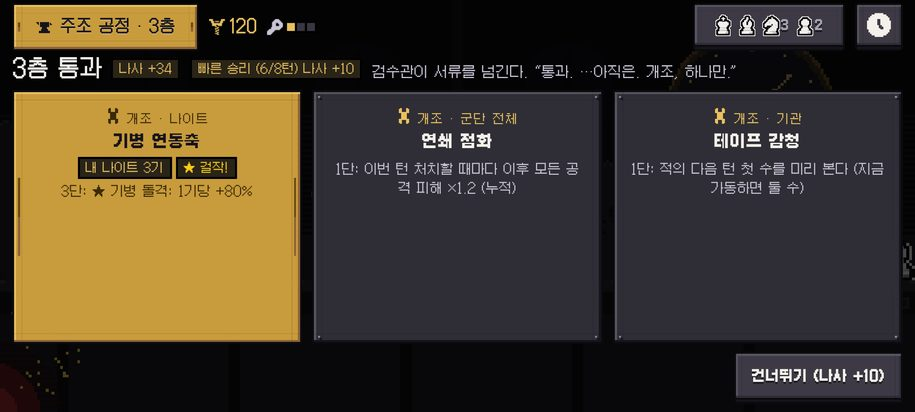
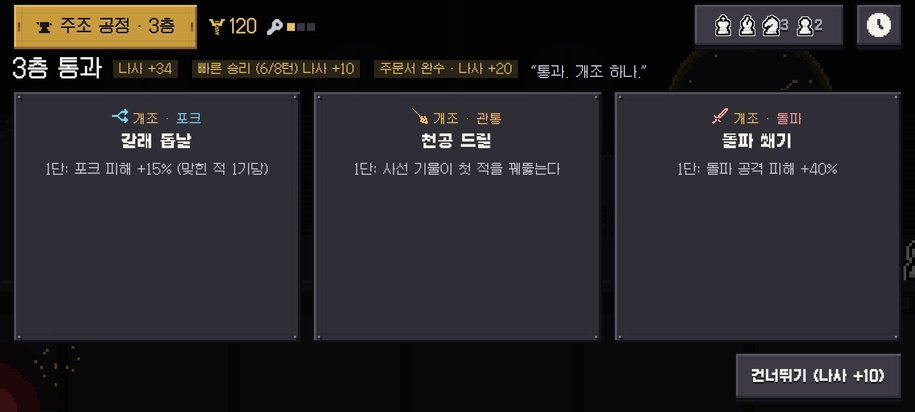
Keyword-linked enchants: fork, pierce, breach and check
키워드 연계 개조 4종을 넣었다 (D-095): 갈래 톱날(포크) · 천공 드릴(관통) · 돌파 쐐기(돌파) · 체크 경보기(체크).
수에 이름이 붙으면 피해·태엽·방열판·주변 타격이 붙어서, 전술 키워드가 군단 빌드의 축이 되게 했다. 천공 드릴 1단은 룩·퀸에도 관통을 열어 준다.
기존 사선 개방 밸브는 사선 개척, 연쇄 점화는 연쇄 키워드에 연결했고, 개조 카드에 그 수의 아이콘·색을 붙였다.
테스트 4개 추가 (131개 통과). 보상 화면은 모바일 해상도로 확인했다.

Claude-Session: https://claude.ai/code/session_011jC4ZCDKW43H5FzLWnYVpe

diff --git a/src/engine/plan.ts b/src/engine/plan.ts
@@ -1,6 +1,6 @@
 import { CHAIN, LAST_STRIKE_MULT } from '../data/battle';
 import { CARDS, type CardUse } from '../data/cards';
-import { SYNERGY } from '../data/enchants';
+import { SYNERGY, TACTIC_ENCHANT } from '../data/enchants';
 import { BASE_AP, PIECE_STATS } from '../data/pieces';
 import { CHAIN_KILLS, type TacticId } from '../data/tactics';
 import { VARIANTS } from '../data/variants';
@@ -110,6 +110,8 @@ interface TurnCtx {
   /** 이번 턴 처치로 빈 적 칸과 그 순번 (돌파 키워드) */
   vacated: { pos: Pos; order: number }[];
   chainDone: boolean;
+  /** 키워드 연계 개조의 턴당 1회 태엽 (갈래 톱날 · 돌파 쐐기) */
+  tacticAp: Set<string>;
 }
 
 /** 전술 키워드를 기록한다 (D-094): 사건 + 진영별 횟수 */
@@ -212,6 +214,38 @@ const applyDamage = (s: BattleState, target: Piece, damage: number, splash = fal
 
 const SLIDERS: PieceType[] = ['B', 'R', 'Q'];
 
+/** 키워드 연계 개조의 공격 뒤 효과 (D-095): 태엽 · 방열판 · 주변 타격 */
+const tacticAfter = (s: BattleState, ctx: TurnCtx, attacker: Piece, hits: HitResult[], got: { fork: boolean; breach: boolean; mult: number }): void => {
+  const side = attacker.side;
+  const lv = (id: 'E17' | 'E19' | 'E20') => ench(s, side, id);
+  const apOnce = (key: string) => {
+    if (ctx.tacticAp.has(key)) return;
+    ctx.tacticAp.add(key);
+    s.apBonus[side] += 1;
+    ctx.events.push({ type: 'apGain', side, amount: 1 });
+  };
+  if (got.fork && lv('E17') >= 2) apOnce('fork');
+  if (got.breach && lv('E19') >= 2) apOnce('breach');
+  // 주변 8칸 적에게 이 공격의 50% (돌파 쐐기 ★ · 비상 경보 ★)
+  const ring = (cx: number, cy: number) => {
+    const out: HitResult[] = [];
+    for (const n of s.pieces.filter((p) => p.side !== side && p.hp > 0 && chebyshev(p, { x: cx, y: cy }) === 1)) {
+      out.push(applyDamage(s, n, Math.max(1, Math.floor(damageOf(s, attacker, n, got.mult) * TACTIC_ENCHANT.extraHit)), true));
+    }
+    if (out.length) ctx.events.push({ type: 'attack', order: ctx.order, attackerId: attacker.id, area: [], hits: out });
+  };
+  if (got.breach && lv('E19') >= 3) ring(attacker.x, attacker.y);
+  const checked = hits.find((h) => h.checked);
+  if (checked && lv('E20') >= 1) {
+    attacker.shield += TACTIC_ENCHANT.checkShield;
+    ctx.events.push({ type: 'shield', pieceId: attacker.id, amount: TACTIC_ENCHANT.checkShield });
+  }
+  if (checked && lv('E20') >= 3) {
+    const k = findPiece(s, checked.targetId);
+    if (k) ring(k.x, k.y);
+  }
+};
+
 /** 착지한 기물의 공격 한 번 (GDD 3장 §3.1). 파괴된 기물은 즉시 제거한다. 처치 수를 돌려준다. */
 const performAttack = (s: BattleState, attacker: Piece, order: number, ctx: TurnCtx, mods: AttackMods): number => {
   const grid = buildGrid(s);
@@ -238,6 +272,12 @@ const performAttack = (s: BattleState, attacker: Piece, order: number, ctx: Turn
   if (e09 >= 1 && opened) mult *= e09 >= 2 ? 1.6 : 1.3;
   // 돌파: 앞 순번이 처치해 비운 칸에 내려앉아 친다
   const breach = ctx.vacated.some((v) => v.order < ctx.order && samePos(v.pos, attacker));
+  // 키워드 연계 개조 (D-095): 공격 전에 알 수 있는 수에 배율
+  const lvT = (id: 'E17' | 'E18' | 'E19' | 'E20') => ench(s, attacker.side, id);
+  const live = targets.filter((t) => t.hp > 0);
+  const forking = live.length >= 2;
+  if (forking && lvT('E17') >= 1) mult *= 1 + live.length * TACTIC_ENCHANT.forkPerTarget;
+  if (breach && lvT('E19') >= 1) mult *= TACTIC_ENCHANT.breachMult;
 
   const hits: HitResult[] = [];
   const primary = new Set(targets.map((t) => t.id));
@@ -245,6 +285,8 @@ const performAttack = (s: BattleState, attacker: Piece, order: number, ctx: Turn
     if (t.hp <= 0) continue;
     let dmg = damageOf(s, attacker, t, mult);
     if (e09 >= 3 && (ctx.hitCount.get(t.id) ?? 0) >= 1) dmg *= 2;
+    if (pierced.has(t.id) && lvT('E18') >= 2) dmg = Math.round(dmg * TACTIC_ENCHANT.pierceMult);
+    if (t.type === 'K' && lvT('E20') >= 2) dmg = Math.round(dmg * TACTIC_ENCHANT.kingMult);
     const origin = { x: t.x, y: t.y };
     const hit = applyDamage(s, t, dmg);
     ctx.hitCount.set(t.id, (ctx.hitCount.get(t.id) ?? 0) + 1);
@@ -263,6 +305,8 @@ const performAttack = (s: BattleState, attacker: Piece, order: number, ctx: Turn
       }
     }
     hits.push(hit);
+    // 갈래 톱날 ★: 포크로 맞힌 적마다 한 번 더
+    if (forking && lvT('E17') >= 3 && victim.hp > 0) hits.push(applyDamage(s, victim, Math.max(1, Math.floor(dmg * TACTIC_ENCHANT.extraHit)), true));
 
     // 번개·연쇄 (E01 2장·★, C03): 맞은 적의 상하좌우 적에게 부가 피해
     if (mods.splash > 0) {
@@ -284,6 +328,7 @@ const performAttack = (s: BattleState, attacker: Piece, order: number, ctx: Turn
     if (breach) tally(s, ctx, attacker.id, 'breach');
   }
   if (hits.some((h) => h.checked)) tally(s, ctx, attacker.id, 'check');
+  tacticAfter(s, ctx, attacker, hits, { fork: direct.length > 0 && forking, breach: direct.length > 0 && breach, mult });
   return resolveDeaths(s, ctx, attacker);
 };
 
@@ -367,6 +412,7 @@ export const simulate = (input: BattleState, plan: Plan): Simulation => {
     order: 0,
     vacated: [],
     chainDone: false,
+    tacticAp: new Set(),
   };
   let apUsed = 0;
   let prevKilled = false;

diff --git a/src/data/enchants.ts b/src/data/enchants.ts
@@ -1,11 +1,15 @@
 /** 개조 카탈로그 (GDD 7장 §7.2, 코드 이름 enchant). 1단 · 2단 · ★걸작. 이름은 world.md §6 「무엇을 + 어떻게 고쳤나」 (D-085). */
-export type EnchantId = 'E01' | 'E02' | 'E03' | 'E04' | 'E05' | 'E06' | 'E07' | 'E08' | 'E09' | 'E10' | 'E11' | 'E12' | 'E13' | 'E14' | 'E15' | 'E16';
+import type { TacticId } from './tactics';
+
+export type EnchantId = 'E01' | 'E02' | 'E03' | 'E04' | 'E05' | 'E06' | 'E07' | 'E08' | 'E09' | 'E10' | 'E11' | 'E12' | 'E13' | 'E14' | 'E15' | 'E16' | 'E17' | 'E18' | 'E19' | 'E20';
 
 export interface EnchantDef {
   name: string;
   /** 대상 표시용 */
   target: string;
   levels: [string, string, string];
+  /** 전술 키워드 연계 개조 (D-095): 이 키워드가 나야 효과가 난다 */
+  tactic?: TacticId;
 }
 
 export const ENCHANTS: Record<EnchantId, EnchantDef> = {
@@ -51,7 +55,8 @@ export const ENCHANTS: Record<EnchantId, EnchantDef> = {
   },
   E09: {
     name: '사선 개방 밸브',
-    target: '군단 전체',
+    target: '사선 개척',
+    tactic: 'discover',
     levels: ['이번 턴 아군이 비켜 줘서 열린 사선으로 공격하면 ATK +30%', '그 보너스가 +60%', '★ 십자 포화: 한 턴에 두 번째 이후로 맞는 적은 피해 2배'],
   },
   E10: {
@@ -81,7 +86,8 @@ export const ENCHANTS: Record<EnchantId, EnchantDef> = {
   },
   E15: {
     name: '연쇄 점화',
-    target: '군단 전체',
+    target: '연쇄',
+    tactic: 'chain',
     levels: ['이번 턴 처치할 때마다 이후 모든 공격 피해 ×1.2 (누적)', '처치마다 ×1.3', '★ 연쇄 폭발: 처치마다 ×1.5'],
   },
   E16: {
@@ -89,6 +95,46 @@ export const ENCHANTS: Record<EnchantId, EnchantDef> = {
     target: '기관',
     levels: ['적의 다음 턴 첫 수를 미리 본다 (지금 가동하면 둘 수)', '첫 2수를 미리 본다', '★ 전부 감청: 적의 다음 턴 수를 전부 본다'],
   },
+  // 키워드 연계 개조 (GDD 11장 B4, D-095): 수에 이름이 붙으면 힘이 붙는다
+  E17: {
+    name: '갈래 톱날',
+    target: '포크',
+    tactic: 'fork',
+    levels: ['포크 피해 +15% (맞힌 적 1기당)', '포크가 나면 그 턴 태엽 +1 (턴당 1회)', '★ 세 갈래: 포크로 맞힌 적마다 한 번 더 50% 타격'],
+  },
+  E18: {
+    name: '천공 드릴',
+    target: '관통',
+    tactic: 'pierce',
+    levels: ['사선 기물이 첫 적을 꿰뚫는다', '관통으로 맞힌 적 피해 +50%', '★ 관통 드릴: 사선 끝까지 모든 적을 꿰뚫는다'],
+  },
+  E19: {
+    name: '돌파 쐐기',
+    target: '돌파',
+    tactic: 'breach',
+    levels: ['돌파 공격 피해 +40%', '돌파가 나면 그 턴 태엽 +1 (턴당 1회)', '★ 쐐기 박기: 돌파 착지 칸 주변 8칸 적에게 50% 피해'],
+  },
+  E20: {
+    name: '체크 경보기',
+    target: '체크',
+    tactic: 'check',
+    levels: ['체크를 건 기물 방열판 +15', '적 킹을 치는 공격 피해 +30%', '★ 비상 경보: 체크가 나면 그 킹 주변 8칸 적에게 50% 피해'],
+  },
+};
+
+/** 키워드 연계 개조 수치 (D-095) 🔧 */
+export const TACTIC_ENCHANT = {
+  /** 갈래 톱날 1단: 포크로 맞힌 적 1기당 피해 배율 가산 */
+  forkPerTarget: 0.15,
+  /** 갈래 톱날 ★ · 돌파 쐐기 ★ · 체크 경보기 ★: 추가 타격 비율 */
+  extraHit: 0.5,
+  /** 천공 드릴 2단: 관통으로 맞힌 적 피해 배율 */
+  pierceMult: 1.5,
+  /** 돌파 쐐기 1단 */
+  breachMult: 1.4,
+  /** 체크 경보기 1단: 방열판 · 2단: 킹 피해 배율 */
+  checkShield: 15,
+  kingMult: 1.3,
 };
 
 /**

diff --git a/tests/tactics.test.ts b/tests/tactics.test.ts
@@ -66,3 +66,56 @@ describe('전술 키워드 (GDD 11장 A1, D-094)', () => {
     expect(r.state.record?.[0].finisher).toBe('P');
   });
 });
+
+describe('키워드 연계 개조 (GDD 11장 B4, D-095)', () => {
+  const ench = (s: BattleState, id: 'E17' | 'E18' | 'E19' | 'E20', n: number) => {
+    s.loadouts[0].enchants[id] = n;
+    return s;
+  };
+  const dmgTo = (events: BattleEvent[], id: number) =>
+    events.flatMap((e) => (e.type === 'attack' ? e.hits.filter((h) => h.targetId === id && !h.splash).map((h) => h.damage) : []))[0] ?? 0;
+  const fork = () => board([['K', 0, 'h1'], ['N', 0, 'b1'], ['P', 1, 'b5', tough], ['P', 1, 'e4', tough], ['K', 1, 'h8']]);
+
+  it('갈래 톱날: 포크 피해가 늘고, 2단이면 태엽 +1, ★이면 한 번 더 친다', () => {
+    const base = dmgTo(simulate(fork(), [{ pieceId: 2, to: sq('c3') }]).events, 3);
+    const r1 = simulate(ench(fork(), 'E17', 1), [{ pieceId: 2, to: sq('c3') }]);
+    expect(dmgTo(r1.events, 3)).toBeGreaterThan(base);
+    const r2 = simulate(ench(fork(), 'E17', 2), [{ pieceId: 2, to: sq('c3') }]);
+    expect(r2.events.some((e) => e.type === 'apGain')).toBe(true);
+    const r3 = simulate(ench(fork(), 'E17', 3), [{ pieceId: 2, to: sq('c3') }]);
+    const extra = r3.events.flatMap((e) => (e.type === 'attack' ? e.hits.filter((h) => h.splash) : []));
+    expect(extra).toHaveLength(2);
+  });
+
+  it('천공 드릴: 룩 사선도 첫 적을 꿰뚫고(관통), 2단이면 뒤의 적 피해가 크다', () => {
+    const rook = () => board([['K', 0, 'h1'], ['R', 0, 'a1'], ['P', 1, 'a5', tough], ['P', 1, 'a7', tough], ['K', 1, 'h8']]);
+    expect(tactics(simulate(rook(), [{ pieceId: 2, to: sq('a2') }]).events)).not.toContain('pierce');
+    const r1 = simulate(ench(rook(), 'E18', 1), [{ pieceId: 2, to: sq('a2') }]);
+    expect(tactics(r1.events)).toContain('pierce');
+    const r2 = simulate(ench(rook(), 'E18', 2), [{ pieceId: 2, to: sq('a2') }]);
+    expect(dmgTo(r2.events, 4)).toBeGreaterThan(dmgTo(r1.events, 4));
+  });
+
+  it('돌파 쐐기: 돌파 피해가 늘고, ★이면 착지 칸 주변 적도 맞는다', () => {
+    const land = () => board([['K', 0, 'h1'], ['R', 0, 'a1'], ['N', 0, 'c4'], ['P', 1, 'a5', { hp: 1, maxHp: 1 }], ['P', 1, 'b7', tough], ['P', 1, 'b6', tough], ['K', 1, 'h8']]);
+    const plan = [{ pieceId: 2, to: sq('a2') }, { pieceId: 3, to: sq('a5') }];
+    const base = dmgTo(simulate(land(), plan).events, 5);
+    expect(dmgTo(simulate(ench(land(), 'E19', 1), plan).events, 5)).toBeGreaterThan(base);
+    const r3 = simulate(ench(land(), 'E19', 3), plan);
+    expect(r3.events.some((e) => e.type === 'attack' && e.hits.some((h) => h.targetId === 6 && h.splash))).toBe(true);
+  });
+
+  it('체크 경보기: 체크를 건 기물 방열판, 2단이면 킹 피해 +30%', () => {
+    const chk = () => {
+      const s = board([['K', 0, 'h1'], ['R', 0, 'a1'], ['K', 1, 'a6', { hp: 5, maxHp: 50 }]]);
+      s.rules.checkmate = true;
+      return s;
+    };
+    const r1 = simulate(ench(chk(), 'E20', 1), [{ pieceId: 2, to: sq('a2') }]);
+    expect(tactics(r1.events)).toContain('check');
+    expect(r1.state.pieces.find((p) => p.id === 2)!.shield).toBe(15);
+    const plain = board([['K', 0, 'h1'], ['R', 0, 'a1'], ['K', 1, 'a6', { hp: 500, maxHp: 500 }]]);
+    const hit = (s: BattleState) => dmgTo(simulate(s, [{ pieceId: 2, to: sq('a2') }]).events, 3);
+    expect(hit(ench(board([['K', 0, 'h1'], ['R', 0, 'a1'], ['K', 1, 'a6', { hp: 500, maxHp: 500 }]]), 'E20', 2))).toBeGreaterThan(hit(plain));
+  });
+});

diff --git a/src/ui/runUi.ts b/src/ui/runUi.ts
@@ -1,3 +1,4 @@
+import { TACTICS } from '../data/tactics';
 import { sfx } from '../audio/sfx';
 import { TUNED } from '../data/aiWeights';
 import { CARDS, CARD_SLOTS, type CardId } from '../data/cards';
@@ -77,7 +78,10 @@ const enchantOffer = (id: EnchantId, next: number, run: RunState | null): string
   }
   if (next === 2) tags.push('<i class="tag">★까지 1단</i>');
   if (next === 3) tags.push('<i class="tag gold">★ 걸작!</i>');
-  return `<span class="kind">${icon('wrench', 's')} 개조 · ${def.target}</span><b>${def.name}</b><span class="tags">${tags.join('')}</span><p>${next}단: ${def.levels[next - 1]}</p>`;
+  // 키워드 연계 개조 (D-095): 그 수의 아이콘·색으로
+  const tac = def.tactic ? TACTICS[def.tactic] : null;
+  const kindIcon = tac ? icon(tac.icon, 's', tac.color) : icon('wrench', 's');
+  return `<span class="kind">${kindIcon} 개조 · ${tac ? `<span style="color:${tac.color}">${def.target}</span>` : def.target}</span><b>${def.name}</b><span class="tags">${tags.join('')}</span><p>${next}단: ${def.levels[next - 1]}</p>`;
 };
 
 const cardOffer = (id: CardId): string => {

diff --git a/tools/fxlab/decisions.ts b/tools/fxlab/decisions.ts
@@ -82,6 +82,7 @@ export const DECISIONS: { item: string; rule: string; status: Status }[] = [
   { item: '흰 킹', rule: '원래 킹 기물 그림 (왕관 쓴 폰 안은 접음, D-079)', status: 'done' },
   { item: '발밑 받침', rule: '쓰지 않는다 — 진영은 흰/검은 기물과 HP 게이지 색으로', status: 'done' },
   { item: '전술 키워드', rule: '공격 순간 친 기물 위에 이름 배너 (포크 하늘 · 관통 주황 · 사선 개척 보라 · 돌파 분홍 · 연쇄 금, 0.5초). 명령 테이프에 미리보기 칩, 기록 줄에 아이콘 칩 (D-094)', status: 'review' },
+  { item: '키워드 개조 카드', rule: '개조 고르기 카드의 대상 줄에 그 수의 아이콘 + 색 (갈래 톱날 = 포크 하늘색 등, D-095)', status: 'review' },
   { item: '주문서', rule: '레일 한 줄: 아이콘 + 주문서 + 지시문 + 진행 (1/2 · 완수 ★ · 실패 줄 긋기) (D-094)', status: 'review' },
   { item: '기록 줄', rule: '판 위 흔적 대신 오른쪽 레일에 하스스톤식 기록 줄 (누르면 그 수를 다시 보여 줌)', status: 'done' },
 ];

diff --git a/src/engine/rules.ts b/src/engine/rules.ts
@@ -147,7 +147,9 @@ export const attackScan = (s: BattleState, piece: Piece, grid: Grid = buildGrid(
         break;
       default: {
         const bishopLevel = type === 'B' ? ench(s, piece.side, 'E02') : 0;
-        const basePierce = (opts.pierce ?? 0) + (bishopLevel >= 3 ? Infinity : bishopLevel >= 2 ? 1 : 0);
+        // 천공 드릴 (E18): 사선 기물 모두 관통 1 · ★ 끝까지
+        const drill = ench(s, piece.side, 'E18');
+        const basePierce = (opts.pierce ?? 0) + (bishopLevel >= 3 ? Infinity : bishopLevel >= 2 ? 1 : 0) + (drill >= 3 ? Infinity : drill >= 1 ? 1 : 0);
         // 반사경 비숍 (이형): 대각 사선이 판 가장자리에 닿으면 한 번 꺾인다
         const mirror = type === 'B' && variantOn(piece, 'mirror');
         for (const d of SLIDE_DIRS[type]!) {

diff --git a/docs/gdd/13_fun_direction.md b/docs/gdd/13_fun_direction.md
@@ -93,7 +93,7 @@
 | 단계 | 내용 | 그림 |
 | :-: | :--- | :--- |
 | **1** | P2 이형 거푸집: 1차 4종(컨베이어 폰·쇠망치 나이트·반사경 비숍·방열 룩) ✅ + 공방 +3 분기 ✅ + 뽑기 기계 대박 ✅ + 적 군단 ✅ → 2차 B 4종 + 지휘 퀸 | 황동 문양 (코드) |
-| **2** | P1 전술 키워드 ✅ + 주문서(보너스 의뢰) ✅ (D-094) → 다음: 키워드 연계 개조(11장 B4) | 아이콘 몇 개 |
+| **2** | P1 전술 키워드 ✅ + 주문서(보너스 의뢰) ✅ (D-094) + 키워드 연계 개조 ✅ (D-095) | 아이콘 몇 개 |
 | **3** | P4 엘리트 접사 + 적 원형 군단 (이형을 쓰는 군단) · P3 영입 | — |
 | **4** | P5 묘수풀이 · 지형 · 반장 전장 규칙 | 지형 칸 |
 | **별도** | P6 명령 손패 집중 개발 | 카드 프레임 |
